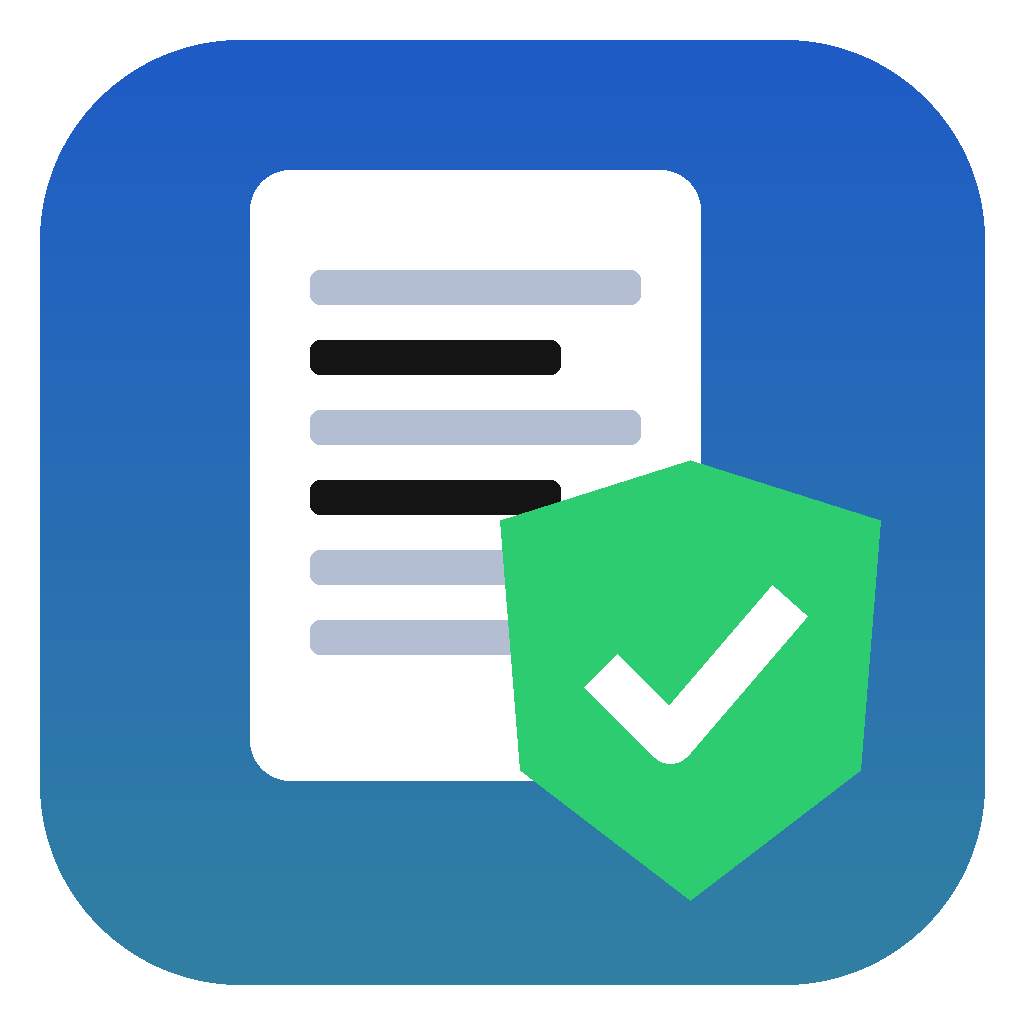
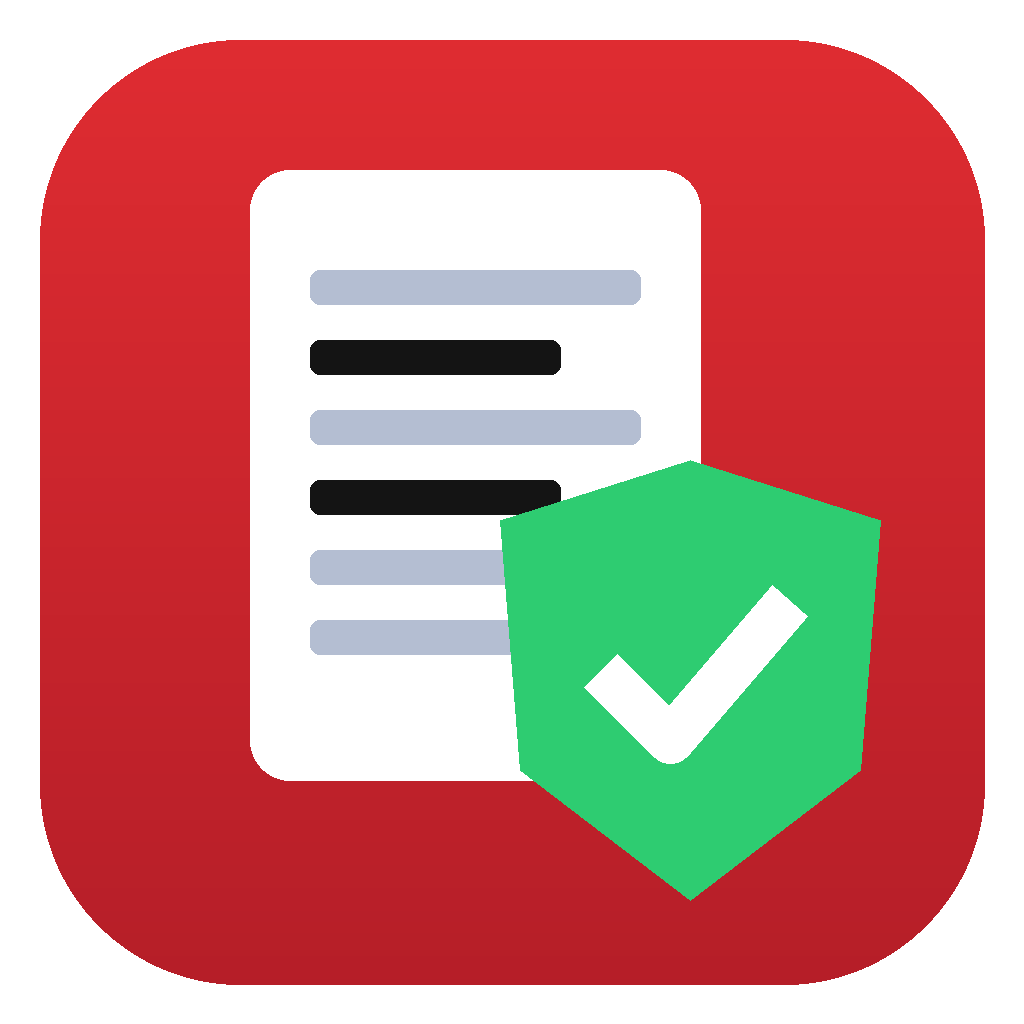
Icono: fondo rojo en lugar de azul

diff --git a/make_icon.py b/make_icon.py
@@ -6,12 +6,12 @@ S = 1024
 img = Image.new("RGBA", (S, S), (0, 0, 0, 0))
 d = ImageDraw.Draw(img)
 
-# Fondo: cuadrado redondeado con degradado azul.
+# Fondo: cuadrado redondeado con degradado rojo.
 grad = Image.new("RGBA", (S, S))
 gd = ImageDraw.Draw(grad)
 for y in range(S):
     t = y / S
-    gd.line([(0, y), (S, y)], fill=(int(30 + 20 * t), int(90 + 40 * t), int(200 - 40 * t), 255))
+    gd.line([(0, y), (S, y)], fill=(int(225 - 45 * t), int(45 - 15 * t), int(50 - 10 * t), 255))
 mask = Image.new("L", (S, S), 0)
 ImageDraw.Draw(mask).rounded_rectangle((40, 40, S - 40, S - 40), radius=200, fill=255)
 img.paste(grad, (0, 0), mask)
